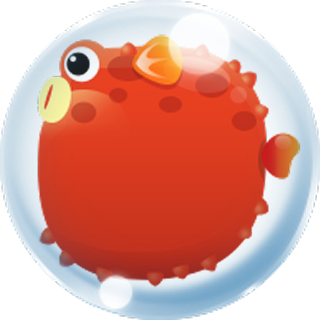
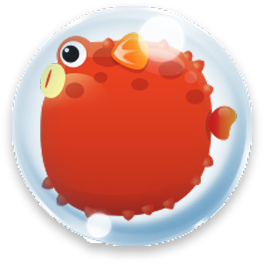
Sea theme: gap 0, image-based shadows, remove code shadows, tiles fill contain

diff --git a/lib/widgets/tile_widget.dart b/lib/widgets/tile_widget.dart
@@ -125,29 +125,12 @@ class _TileWidgetState extends State<TileWidget>
               // 버블 배경 (빈 타일만) — TileWidget에서는 game_board가 담당하므로 생략
               // 숫자 타일: 물고기 배경 + 외부 원형 그림자 + 숫자
               if (hasValue && theme.tileFishAsset != null) ...[
-                Container(
+                SizedBox(
                   width: widget.size,
                   height: widget.size,
-                  decoration: BoxDecoration(
-                    shape: BoxShape.circle,
-                    color: const Color(0xFF01578E),
-                    boxShadow: [
-                      BoxShadow(
-                        color: Colors.black.withValues(alpha: 0.3),
-                        blurRadius: 10,
-                        offset: const Offset(0, 4),
-                      ),
-                    ],
-                  ),
-                ),
-                ClipOval(
-                  child: SizedBox(
-                    width: widget.size,
-                    height: widget.size,
-                    child: Image.asset(
-                      theme.tileFishAsset!,
-                      fit: BoxFit.cover,
-                    ),
+                  child: Image.asset(
+                    theme.tileFishAsset!,
+                    fit: BoxFit.contain,
                   ),
                 ),
                 Center(

diff --git a/lib/widgets/game_board.dart b/lib/widgets/game_board.dart
@@ -183,7 +183,7 @@ class _GameBoardState extends State<GameBoard>
   }
 }
 
-// 원형 마스크에 이미지 + 외부 그림자
+// 원형 마스크에 이미지 (그림자는 이미지에 포함)
 class _CircleImageTile extends StatelessWidget {
   final String asset;
   final double size;
@@ -192,31 +192,10 @@ class _CircleImageTile extends StatelessWidget {
 
   @override
   Widget build(BuildContext context) {
-    return Stack(
-      children: [
-        Container(
-          width: size,
-          height: size,
-          decoration: BoxDecoration(
-            shape: BoxShape.circle,
-            color: bgColor,
-            boxShadow: [
-              BoxShadow(
-                color: Colors.black.withValues(alpha: 0.28),
-                blurRadius: 8,
-                offset: const Offset(0, 4),
-              ),
-            ],
-          ),
-        ),
-        ClipOval(
-          child: SizedBox(
-            width: size,
-            height: size,
-            child: Image.asset(asset, fit: BoxFit.cover),
-          ),
-        ),
-      ],
+    return SizedBox(
+      width: size,
+      height: size,
+      child: Image.asset(asset, fit: BoxFit.contain),
     );
   }
 }

diff --git a/lib/core/theme/themes/sea_theme.dart b/lib/core/theme/themes/sea_theme.dart
@@ -14,8 +14,8 @@ const seaTheme = GameThemeData(
   buttonColor: Color(0xFF006494),
   winOverlayColor: Color(0xFF006494),
   overlayTextColor: Color(0xFFFFFFFF),
-  boardPadding: 14.0,
-  gap: 10.0,
+  boardPadding: 24.0,
+  gap: 0.0,
   boardRadius: 16.0,
   tileRadius: 9999.0, // 원형 타일
   isCircleTile: true,
